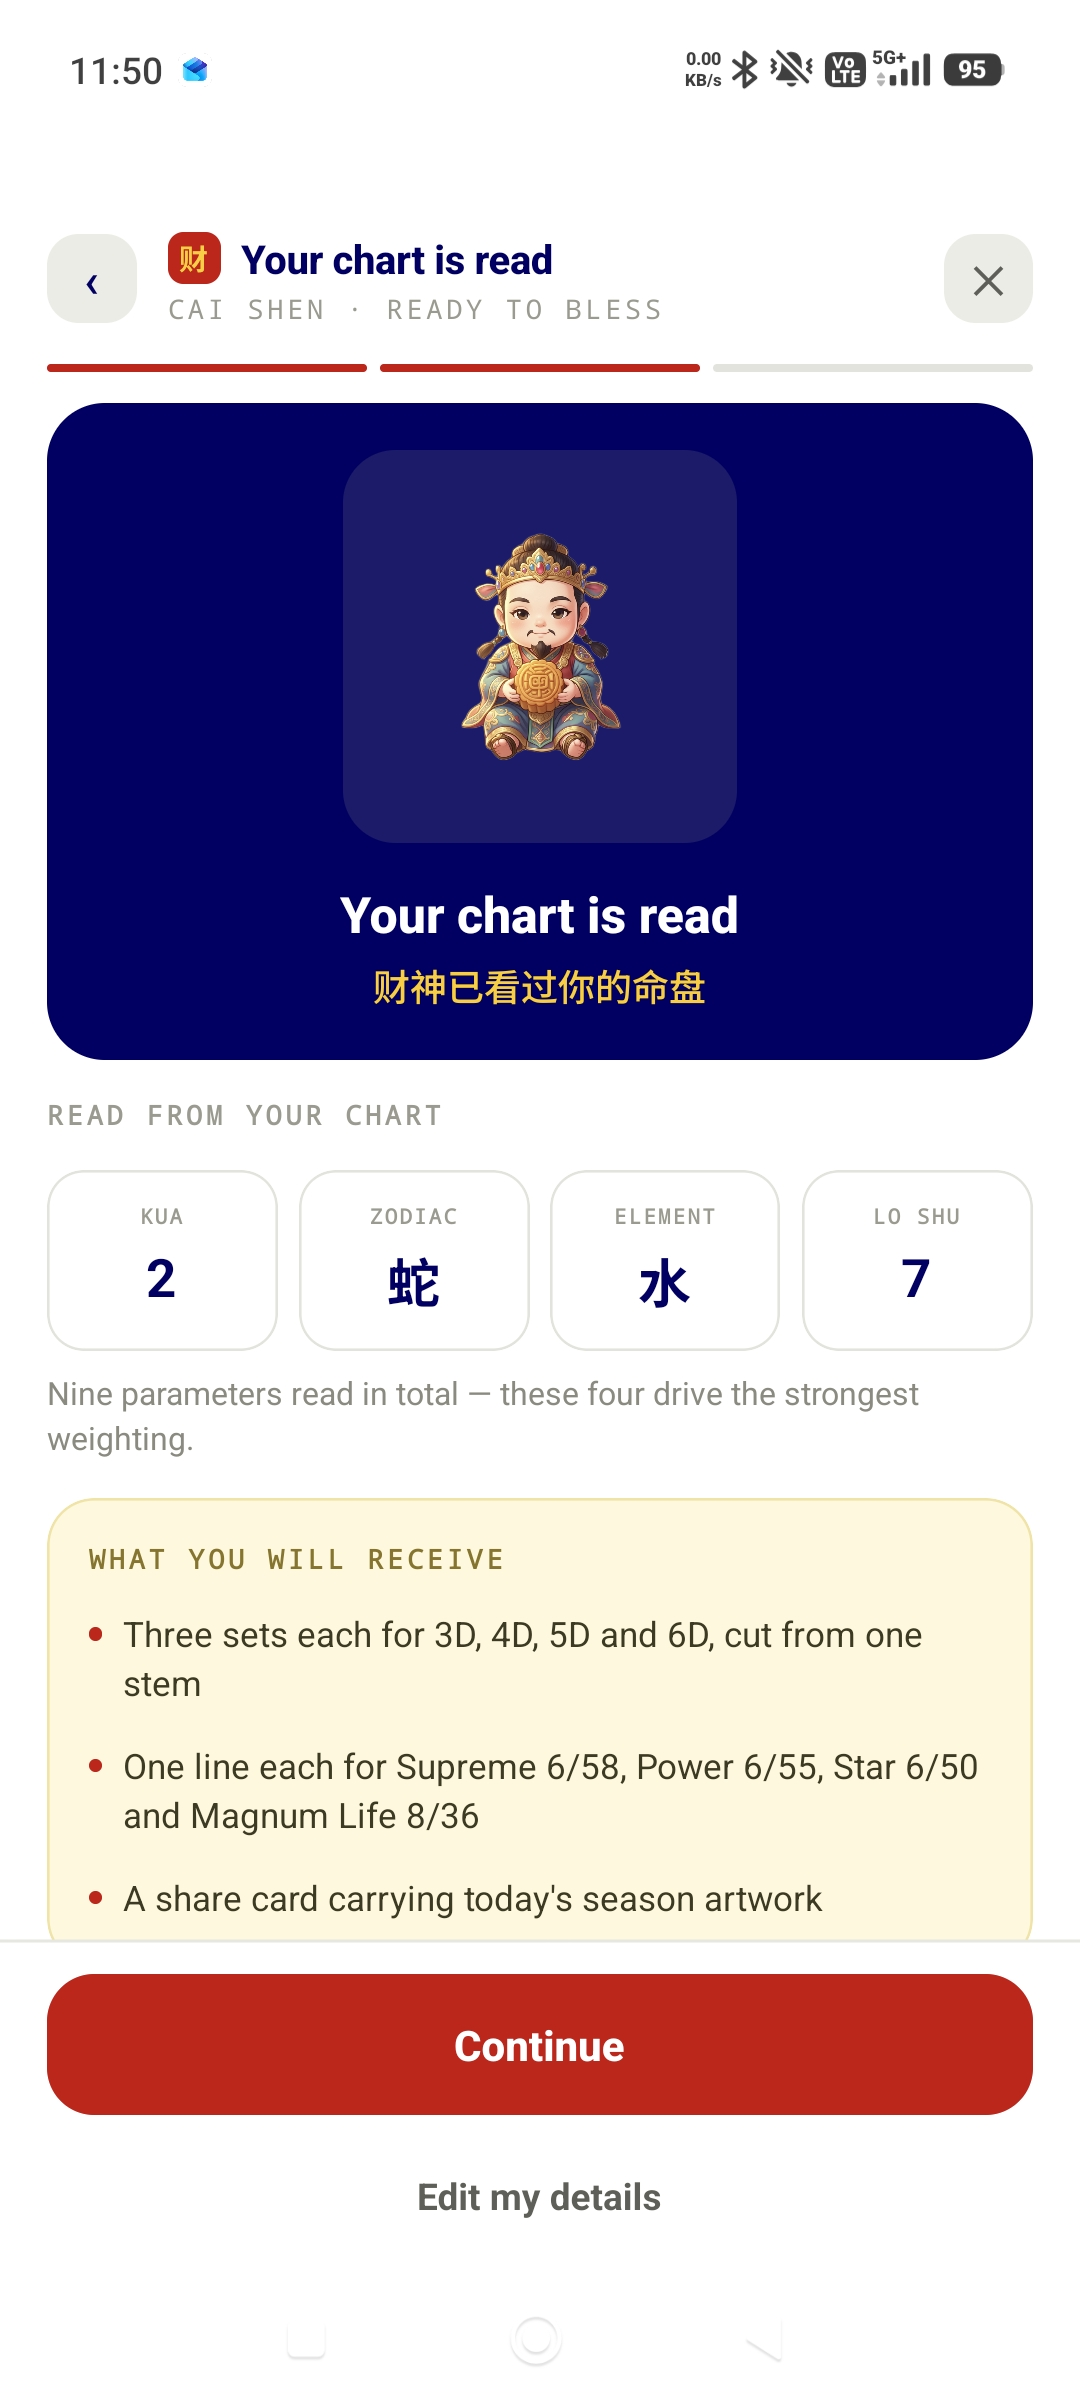
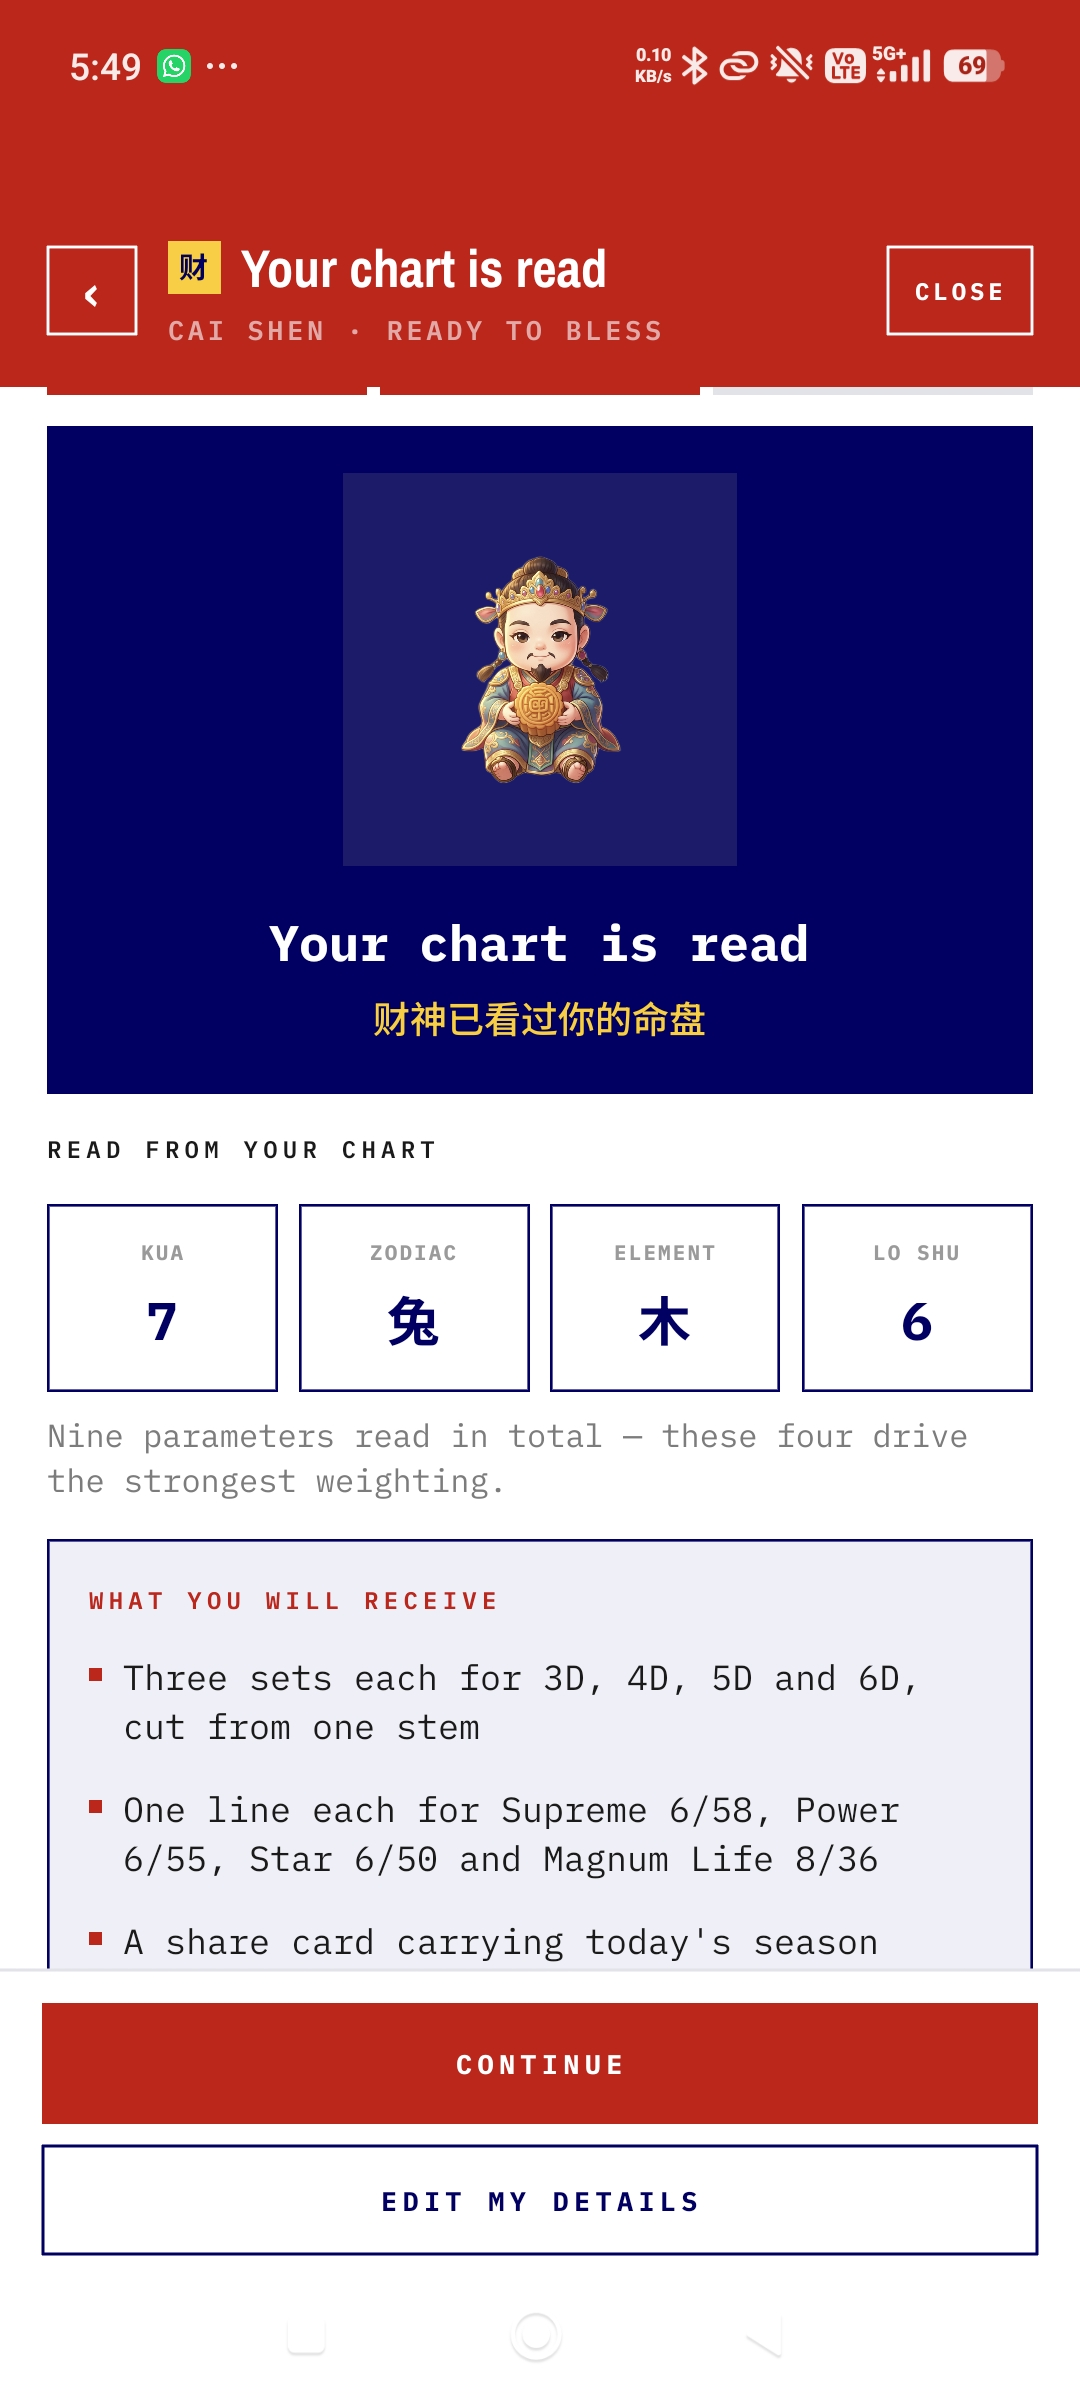
Update 4D TOTO MY page screenshots to redesigned app UI
Claude-Session: https://claude.ai/code/session_01GigpgVdZoyMYAzhH8rhF2p

diff --git a/src/app/totomy/page.tsx b/src/app/totomy/page.tsx
@@ -204,7 +204,7 @@ export default function TotoMYPage() {
           </div>
           <div className="grid w-full max-w-[560px] grid-cols-2 gap-5 justify-self-center">
             <Phone src="toto-jackpot.jpg" alt="Toto 4D Jackpot winning pairs" />
-            <Phone src="toto-lotto.jpg" alt="Supreme, Power and Star Toto results" className="mt-[60px]" />
+            <Phone src="toto-lotto.jpg" alt="Da Ma Cai 1+3D Jackpot winning pairs" className="mt-[60px]" />
           </div>
         </section>
 
@@ -254,7 +254,7 @@ export default function TotoMYPage() {
           <div className="w-full max-w-[300px] justify-self-center">
             <Phone
               src="sifu-score.jpg"
-              alt="Sifu bet score of 45 out of 100"
+              alt="Sifu bet score of 69 out of 100"
               large
               className="!bg-white !shadow-[0_30px_70px_-20px_rgba(0,0,0,0.6)]"
             />
